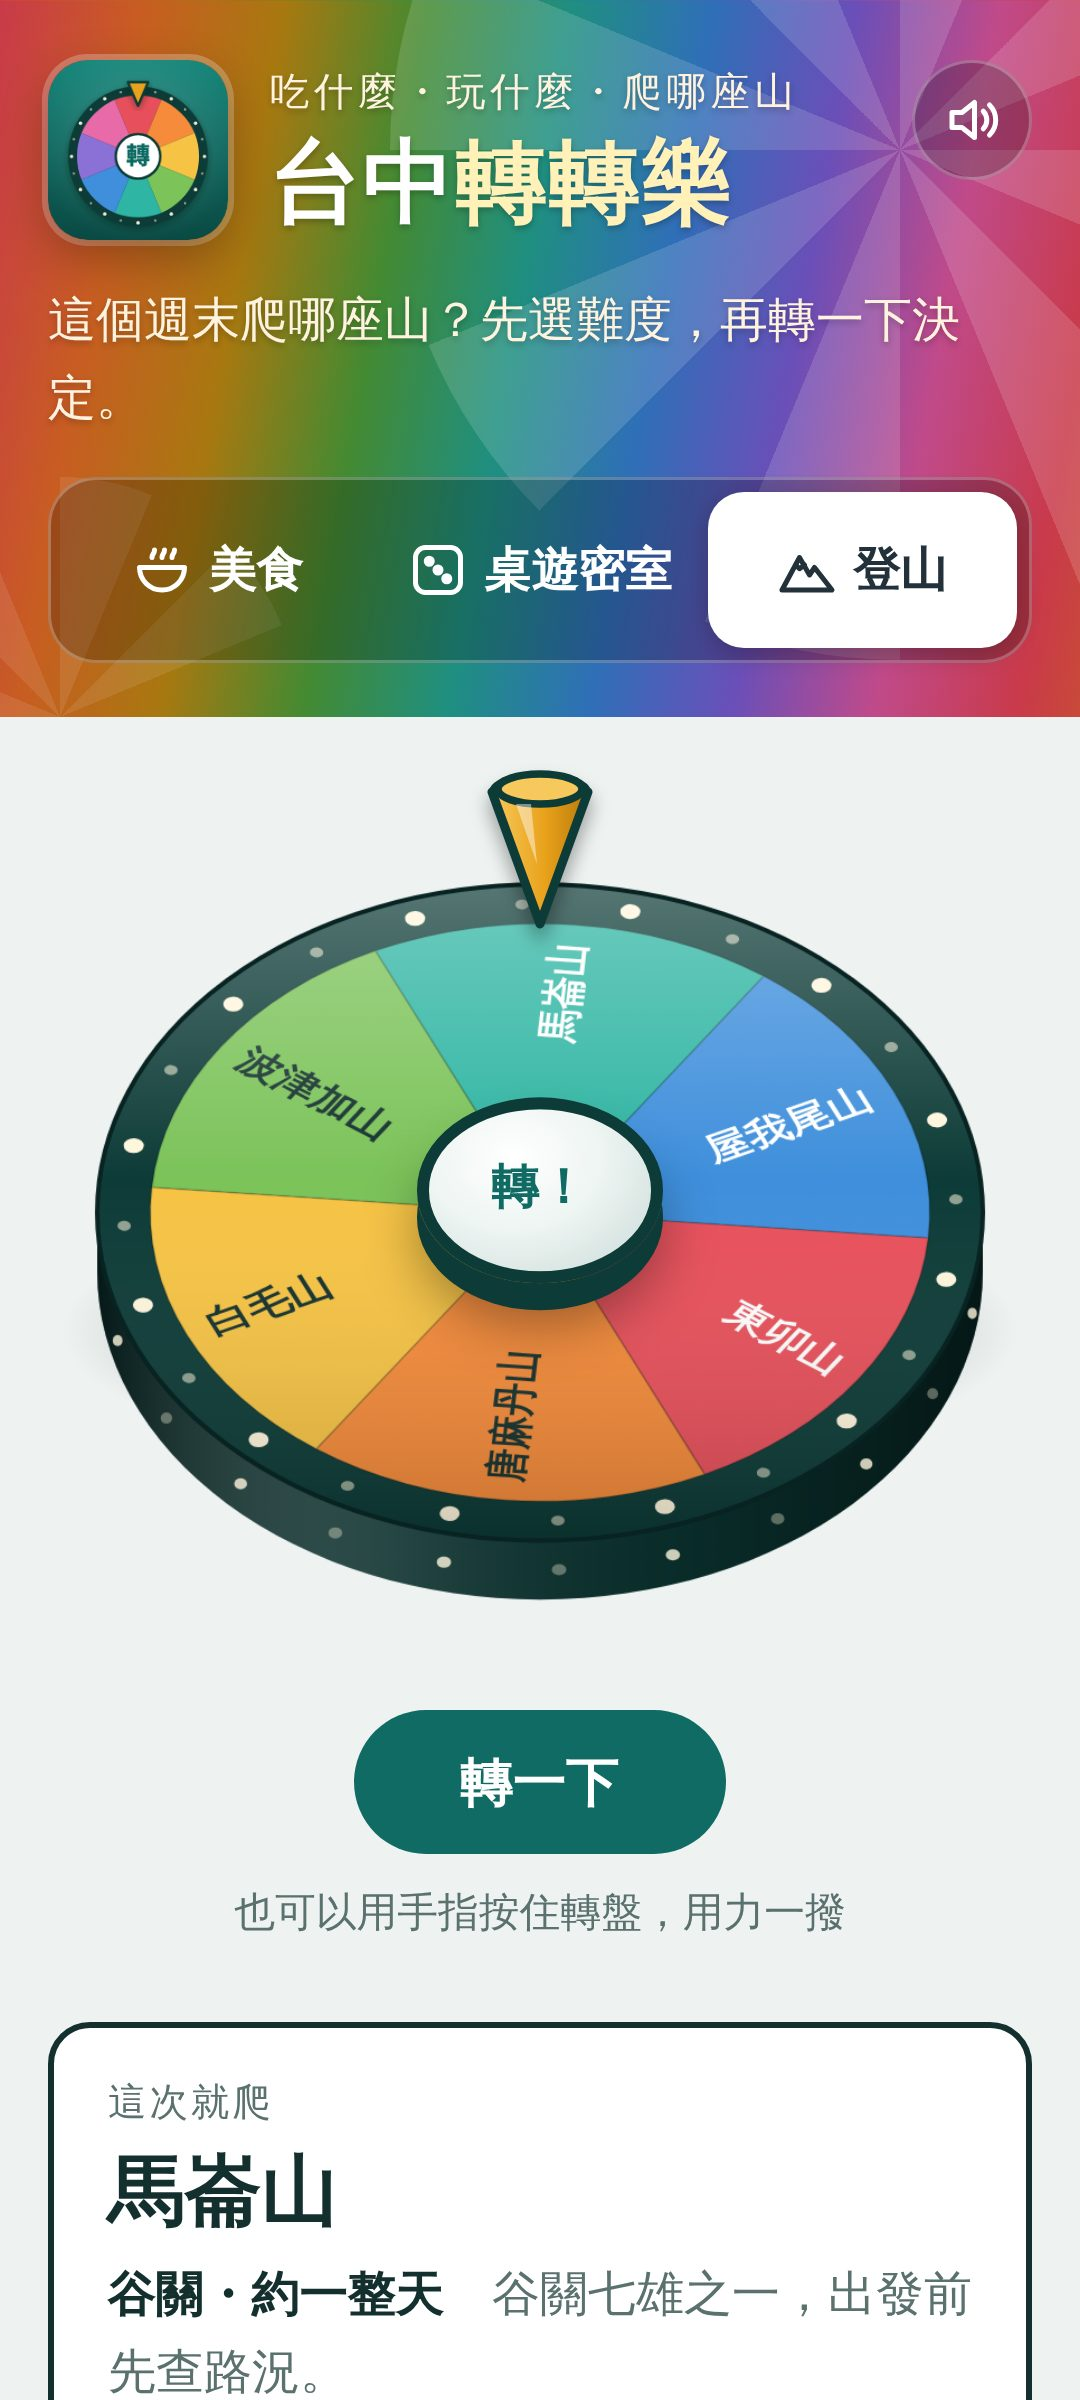
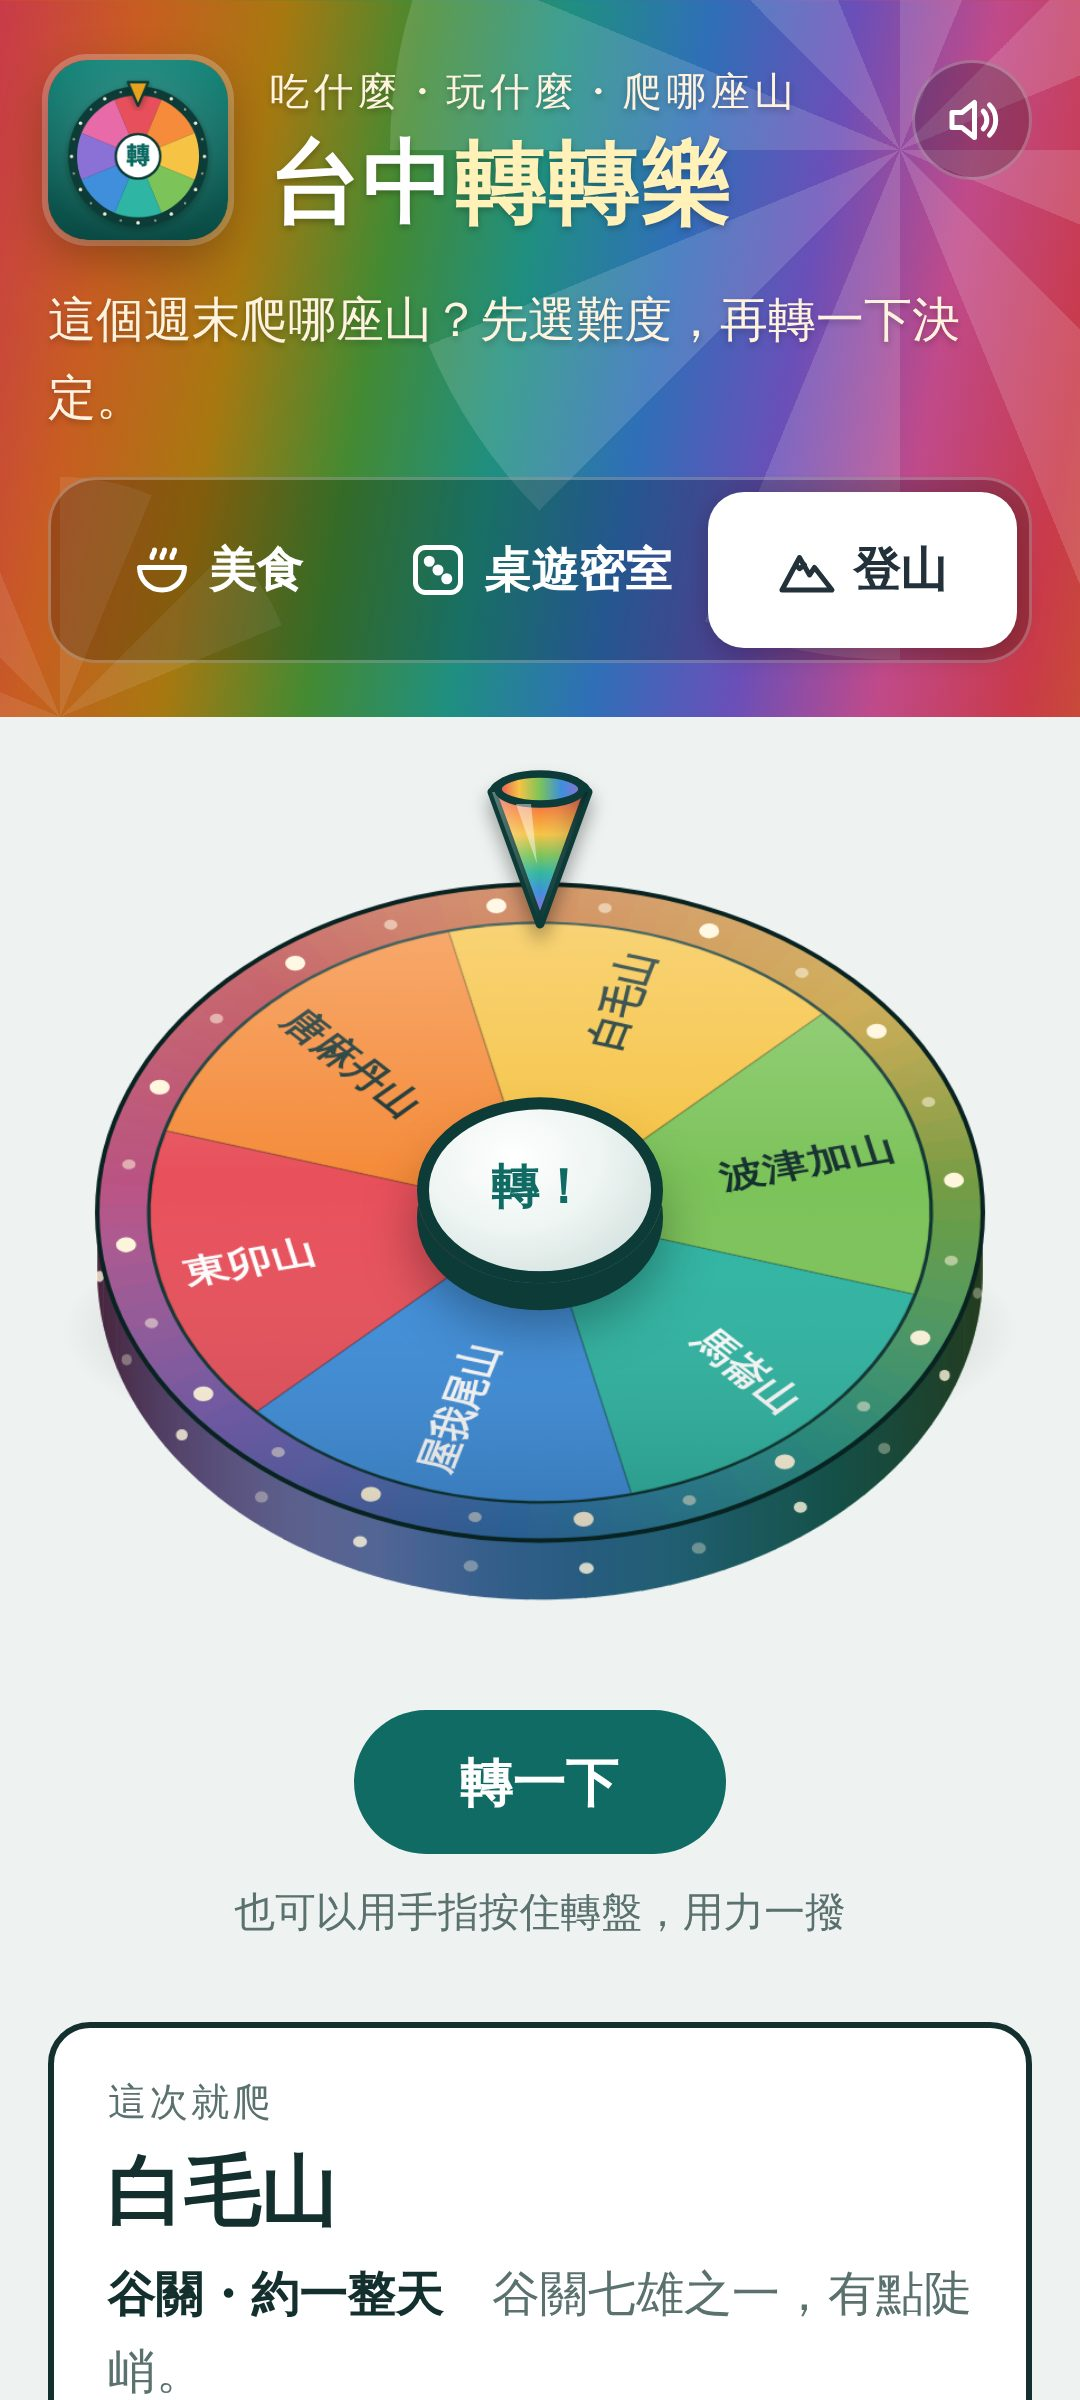
台中轉轉樂：轉盤外框與指針改成五彩
Claude-Session: https://claude.ai/code/session_01RjTRgTtaL6n1Y88vUja3y2

diff --git a/wheel/index.html b/wheel/index.html
@@ -326,10 +326,15 @@
         <canvas id="wheel" width="880" height="780" aria-hidden="true"></canvas>
         <div class="pointer" aria-hidden="true">
           <svg viewBox="0 0 44 58">
-            <defs><linearGradient id="pg" x1="0" y1="0" x2="1" y2="0"><stop offset="0" stop-color="#f7c95c"/><stop offset=".55" stop-color="#e9a21b"/><stop offset="1" stop-color="#b9780c"/></linearGradient></defs>
+            <defs>
+              <linearGradient id="pg" x1="0" y1="0" x2="0" y2="1"><stop offset="0" stop-color="#e8505b"/><stop offset=".16" stop-color="#f58b3a"/><stop offset=".32" stop-color="#f6c344"/><stop offset=".48" stop-color="#7cc35a"/><stop offset=".62" stop-color="#2fb5a3"/><stop offset=".76" stop-color="#3f8fdc"/><stop offset=".9" stop-color="#8b6fd6"/><stop offset="1" stop-color="#e86aa8"/></linearGradient>
+              <linearGradient id="ps" x1="0" y1="0" x2="1" y2="0"><stop offset="0" stop-color="#ffffff" stop-opacity=".35"/><stop offset=".5" stop-color="#ffffff" stop-opacity="0"/><stop offset="1" stop-color="#000000" stop-opacity=".3"/></linearGradient>
+              <linearGradient id="pc" x1="0" y1="0" x2="1" y2="0"><stop offset="0" stop-color="#e8505b"/><stop offset=".25" stop-color="#f6c344"/><stop offset=".5" stop-color="#7cc35a"/><stop offset=".75" stop-color="#3f8fdc"/><stop offset="1" stop-color="#8b6fd6"/></linearGradient>
+            </defs>
             <ellipse cx="22" cy="10" rx="17" ry="7" fill="#0d3b37"/>
             <path d="M6 10 L38 10 L22 54 Z" fill="url(#pg)" stroke="#0d3b37" stroke-width="3" stroke-linejoin="round"/>
-            <ellipse cx="22" cy="9" rx="14" ry="5" fill="#f7c95c" stroke="#0d3b37" stroke-width="2.5"/>
+            <path d="M6 10 L38 10 L22 54 Z" fill="url(#ps)"/>
+            <ellipse cx="22" cy="9" rx="14" ry="5" fill="url(#pc)" stroke="#0d3b37" stroke-width="2.5"/>
             <path d="M14 14 L19 14 L21 34 Z" fill="#ffffff" opacity=".45"/>
           </svg>
         </div>
@@ -568,6 +573,15 @@
     return "rgb(" + out.join(",") + ")";
   }
 
+  // 在八色之間平滑過渡，t 介於 0～1（繞一圈）
+  function ringColor(palette, t) {
+    var n = palette.length, x = t * n, i = Math.floor(x) % n, f = x - Math.floor(x);
+    function rgb(h) { var v = parseInt(h.replace("#", ""), 16); return [(v >> 16) & 255, (v >> 8) & 255, v & 255]; }
+    var a = rgb(palette[i]), b = rgb(palette[(i + 1) % n]);
+    var c = a.map(function (v, j) { return Math.round(v + (b[j] - v) * f); });
+    return "#" + c.map(function (v) { return ("0" + v.toString(16)).slice(-2); }).join("");
+  }
+
   // 判斷顏色亮不亮，決定字要用深色還是白色
   function isLight(hex) {
     var m = /^#?([0-9a-f]{6})$/i.exec(hex);
@@ -604,12 +618,26 @@
     ctx.restore();
 
     // 2. 轉盤的側面（厚度），左右兩邊加暗，看起來像圓柱
+    var palette = [1, 2, 3, 4, 5, 6, 7, 8].map(function (n) { return token("--seg-" + n); });
+    var RING = 96;
+    // 側面切成很多小片，每片用外圈在那個角度的顏色（較暗），跟著轉盤轉
+    for (var k = 0; k < RING; k++) {
+      var a0 = k * TAU / RING, a1 = a0 + TAU / RING + 0.004;
+      var s0 = a0 + rotation, s1 = a1 + rotation;
+      // 只畫看得到的前半圈（畫面下半部）
+      var m0 = ((s0 % TAU) + TAU) % TAU, m1 = m0 + (a1 - a0);
+      if (m0 >= Math.PI && m1 <= TAU) continue;
+      ctx.beginPath();
+      ctx.ellipse(cx, cy, fr, ry, 0, s0, s1);
+      ctx.ellipse(cx, cy + T, fr, ry, 0, s1, s0, true);
+      ctx.closePath();
+      ctx.fillStyle = shade(ringColor(palette, k / RING), 0.62);
+      ctx.fill();
+    }
     ctx.beginPath();
     ctx.ellipse(cx, cy, fr, ry, 0, 0, Math.PI);
     ctx.ellipse(cx, cy + T, fr, ry, 0, Math.PI, 0, true);
     ctx.closePath();
-    ctx.fillStyle = shade(rim, 0.8);
-    ctx.fill();
     var side = ctx.createLinearGradient(cx - fr, 0, cx + fr, 0);
     side.addColorStop(0, "rgba(0,0,0,.45)");
     side.addColorStop(0.35, "rgba(255,255,255,.10)");
@@ -633,10 +661,19 @@
     ctx.save();
     ctx.translate(cx, cy);
     ctx.scale(1, TILT);
-    ctx.beginPath(); ctx.arc(0, 0, fr, 0, Math.PI * 2);
-    ctx.fillStyle = rim; ctx.fill();
     ctx.rotate(rotation);
+    for (var q = 0; q < RING; q++) {
+      var q0 = q * TAU / RING, q1 = q0 + TAU / RING + 0.004;
+      ctx.beginPath();
+      ctx.moveTo(0, 0);
+      ctx.arc(0, 0, fr, q0, q1);
+      ctx.closePath();
+      ctx.fillStyle = shade(ringColor(palette, q / RING), 0.8);
+      ctx.fill();
+    }
     var sr = fr * 0.88;
+    ctx.beginPath(); ctx.arc(0, 0, sr + 3, 0, TAU);
+    ctx.fillStyle = shade(rim, 0.9); ctx.fill();
     if (!list.length) {
       ctx.beginPath(); ctx.arc(0, 0, sr, 0, Math.PI * 2);
       ctx.fillStyle = token("--surface"); ctx.fill();

diff --git a/wheel/sw.js b/wheel/sw.js
@@ -1,6 +1,6 @@
 // 台中轉轉樂的 service worker：先存好 App 檔案，沒有網路也能開啟。
 // 修改任何檔案後，請把 CACHE 的版本號加一，手機才會更新到新版。
-const CACHE = "taichung-wheels-v10";
+const CACHE = "taichung-wheels-v11";
 const FILES = [
   "./",
   "./index.html",
